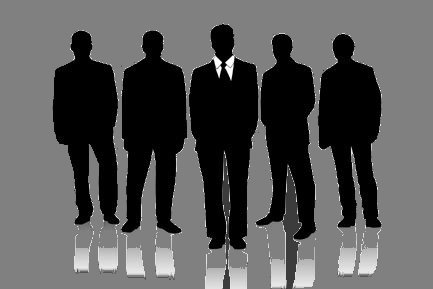
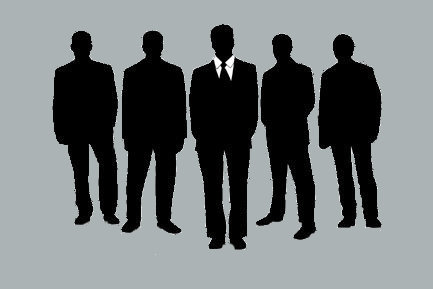
modified:   images/about_us2.jpg 	modified:   images/candidates.jpg 	modified:   images/leaderboard.jpg 	modified:   index.php

diff --git a/index.php b/index.php
@@ -74,7 +74,7 @@ if(isset($_SESSION['user']))
       				<div class="bottom_third">
 					<a href="about_us.php">
 	  					<h1> About Us </h1>
-	  					<img src="images/about_us.jpg"/>
+	  					<img src="images/about_us2.jpg"/>
 					</a>
       				</div>
 			</div>
